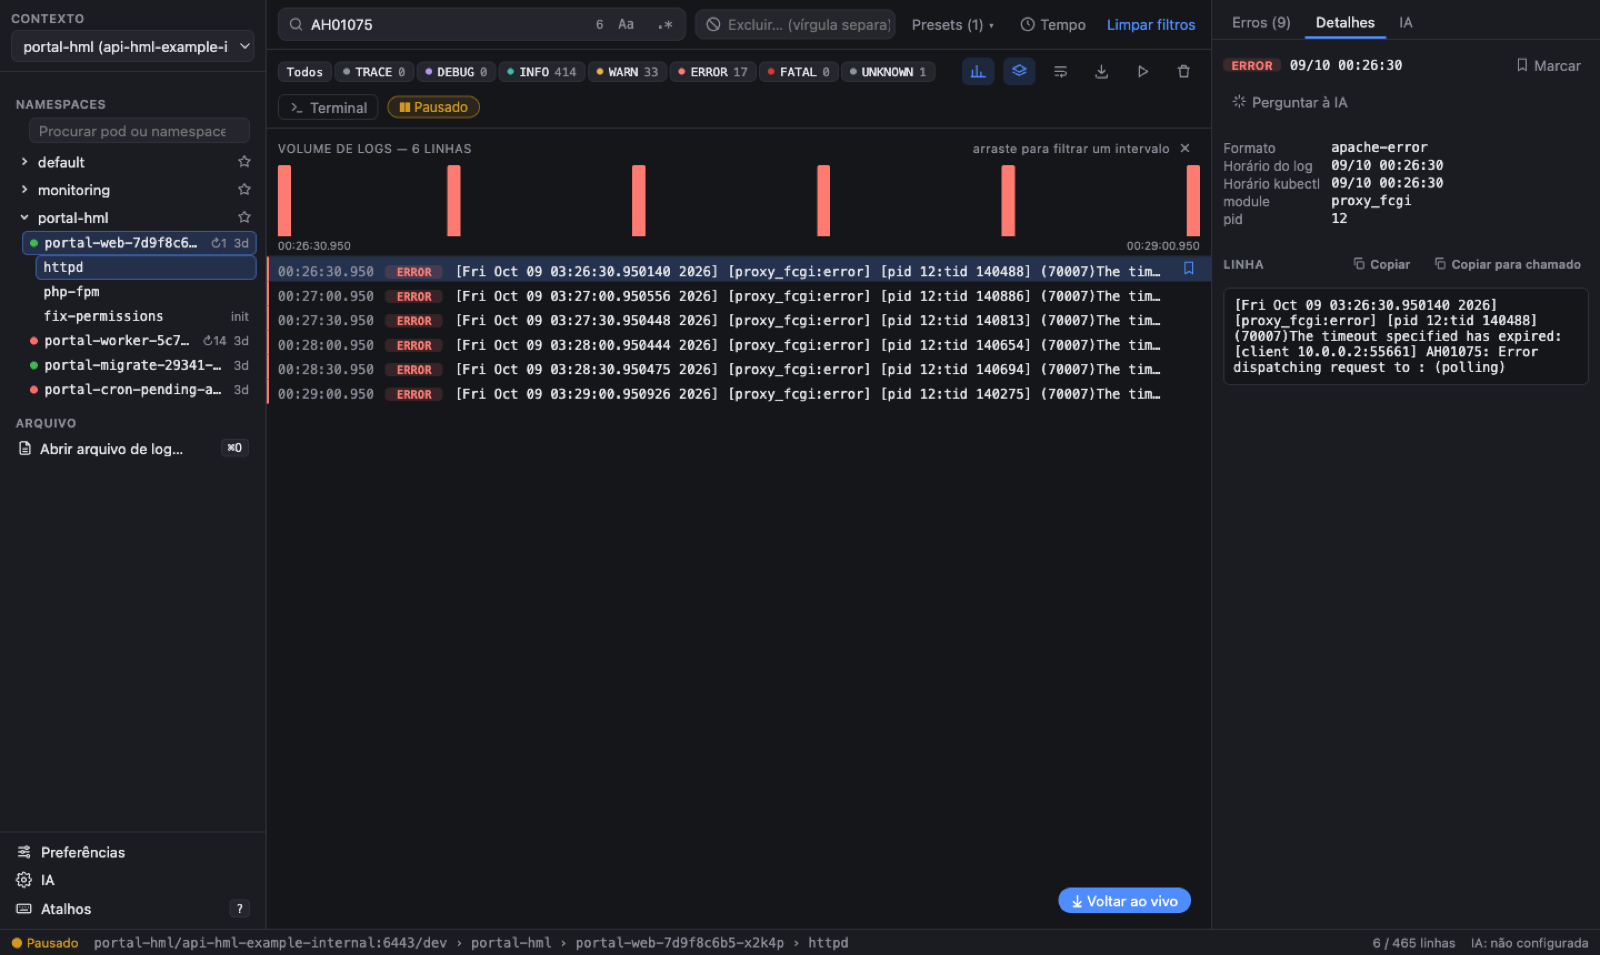
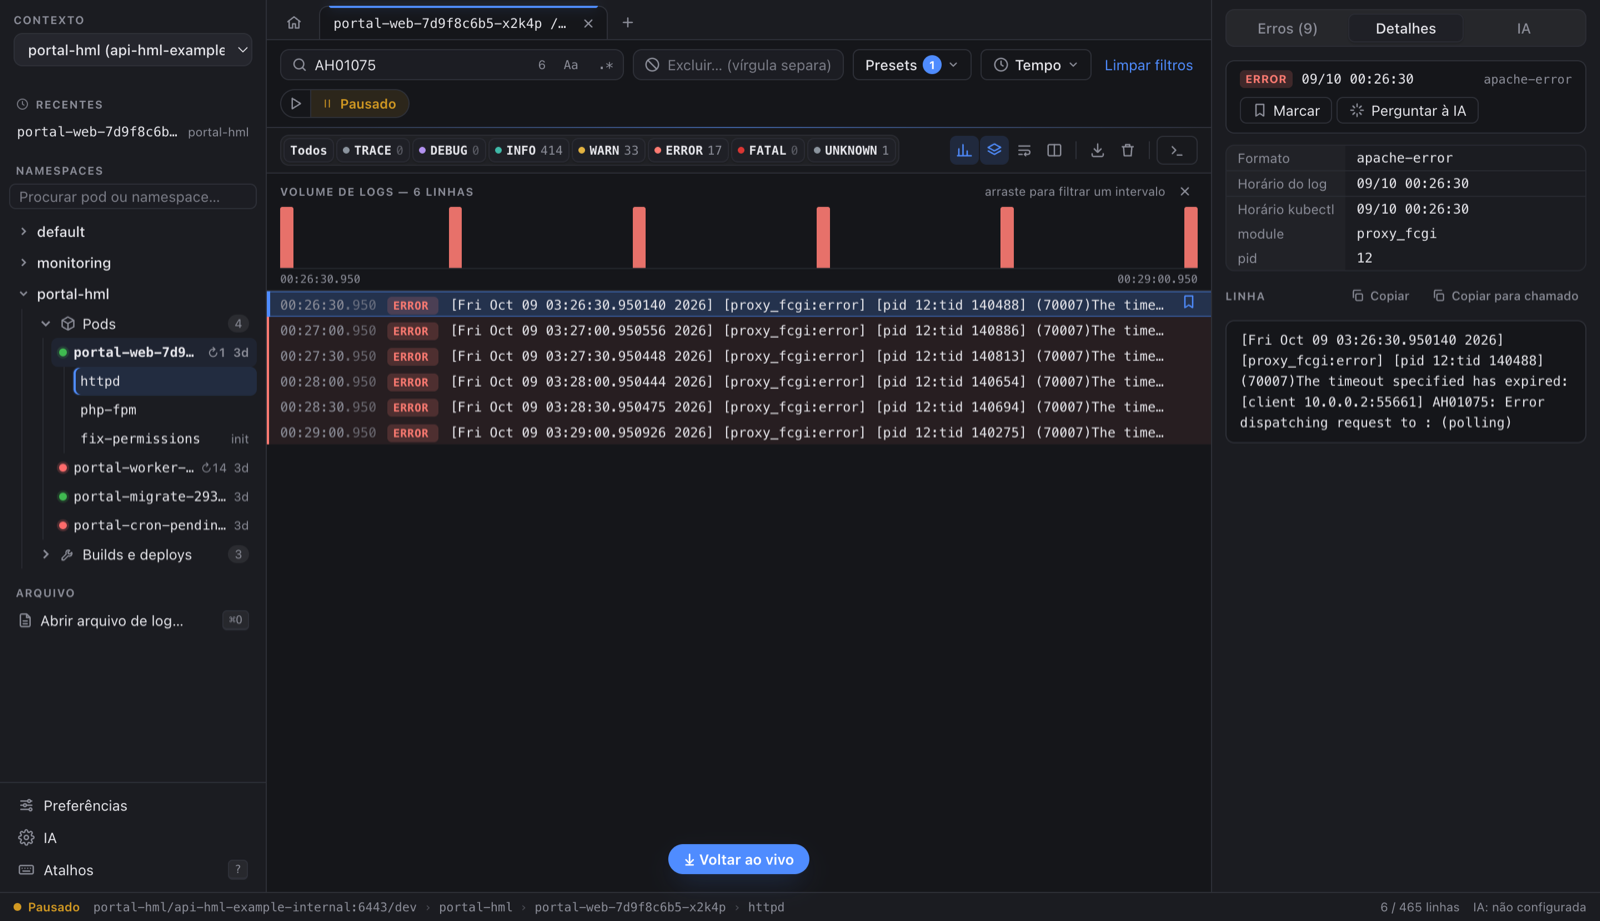
chore(release): 1.4.0 with a visual README tour
- README: header, badges, visual tour (welcome, details, errors, OKD builds,
  compare, light theme, preferences, shortcuts) from fake-data screenshots
- drop the unused icon concepts; keep the current logo; version 1.4.0

diff --git a/README.md b/README.md
@@ -1,26 +1,97 @@
-# LogDeck
+<p align="center">
+  <img src="build/icon.png" alt="LogDeck" width="128" height="128">
+</p>
 
-Explorador de logs de Kubernetes/OKD para **macOS, Linux e Windows**, **somente leitura**. Escolha o contexto, o namespace e o pod, acompanhe o log ao vivo, filtre por nível e por texto, veja os erros agrupados e, se quiser, peça para uma IA explicar o que está acontecendo.
+<h1 align="center">LogDeck</h1>
 
-> **English:** LogDeck is a read-only Kubernetes/OKD log explorer for macOS, Linux and Windows. Pick a context, namespace and pod, follow the log live, filter by level and text, see grouped errors and optionally ask an AI to explain them. The interface is available in English, Spanish and Portuguese (Preferences → Language).
+<p align="center">
+  <strong>Logs de Kubernetes e OKD, sem drama.</strong><br>
+  Explorador de logs gratuito e de código aberto para macOS, Linux e Windows — <strong>somente leitura</strong>.
+</p>
 
-![LogDeck](docs/images/main.png)
+<p align="center">
+  <a href="https://github.com/wisecort/LogDeck/releases/latest"><img alt="Release" src="https://img.shields.io/github/v/release/wisecort/LogDeck?label=release&color=4f8cff"></a>
+  <a href="LICENSE"><img alt="Licença MIT" src="https://img.shields.io/badge/licen%C3%A7a-MIT-3fb950"></a>
+  <img alt="macOS, Linux e Windows" src="https://img.shields.io/badge/macOS%20%C2%B7%20Linux%20%C2%B7%20Windows-1f2328">
+  <img alt="Somente leitura" src="https://img.shields.io/badge/cluster-somente%20leitura-e3b341">
+</p>
+
+<p align="center">
+  <code>brew install --cask wisecort/tap/logdeck</code>
+  &nbsp;·&nbsp;
+  <a href="https://github.com/wisecort/LogDeck/releases/latest">baixar para macOS, Linux ou Windows</a>
+</p>
+
+![LogDeck: log ao vivo, níveis com cores, histograma e erros agrupados](docs/images/main.png)
+
+> **English:** LogDeck is a free, open-source, read-only Kubernetes/OKD log explorer for macOS, Linux and Windows. Pick a context, namespace and pod, follow the log live, filter by level and text, see grouped errors, browse OKD builds and optionally ask an AI to explain what is going on. The interface is available in English, Spanish and Portuguese (Preferences → Language).
+
+## Por que o LogDeck
+
+- **Olha, não mexe.** O kubectl só roda com verbos de leitura (`get`, `logs`, `config get-contexts`, `auth can-i`), e o seu kubeconfig nunca é alterado.
+- **Feito para achar o problema rápido.** Níveis com cores em vários formatos de log, erros e timeouts agrupados com contagem, histograma de volume e comparação com o container que caiu.
+- **Feito para o dia a dia no OKD/OpenShift.** Histórico de builds no próprio namespace, log do build legível (passos, push, erros) e pods de build fora do caminho.
+- **Bonito e rápido.** 50 mil linhas sem travar, 9 temas, 4 idiomas e atalhos de teclado para tudo.
+
+## Tour
+
+### Comece por onde quiser
+
+A tela inicial mostra o contexto atual, a versão do kubectl e atalhos para abrir pods, arquivos de log ou o último pod que você viu.
+
+![Tela de boas-vindas](docs/images/welcome.png)
+
+### Detalhes de qualquer linha
+
+Clique numa linha para ver os horários do log e do kubectl, os campos reconhecidos, o JSON formatado e o stack trace. **Copiar para chamado** gera um texto pronto com pod, horários em UTC, nível e a linha, com senhas e tokens mascarados.
+
+![Detalhes de uma linha de erro](docs/images/details.png)
+
+### Erros e timeouts agrupados
+
+O painel **Erros** junta os erros repetidos (timeout Apache → PHP-FPM, `max_children`, conexão com banco, falha de build…) com contagem e período. Clique num grupo para filtrar o log por ele; o histograma mostra quando aconteceu.
+
+![Log filtrado por um grupo de erro](docs/images/errors.png)
+
+### Builds do OKD no próprio namespace
+
+Cada namespace mostra a pasta **Pods** e a pasta **Builds e deploys** com o histórico de builds (status, commit, duração). O log do build é reconhecido: passos `STEP n/m` e push em INFO, camadas em DEBUG, erros em ERROR, e o painel aponta a **Falha no build**.
+
+![Log de um build do OKD](docs/images/build-log.png)
+
+Quando o cluster já removeu o pod de um build antigo, o LogDeck mostra os detalhes do build e explica por que o log não existe mais.
+
+![Detalhes de um build cujo pod foi removido](docs/images/build-details.png)
+
+### Por que o pod caiu?
+
+Em pods com restart, **Comparar com o anterior** coloca o log do container anterior (`--previous`) ao lado do atual, com os mesmos filtros. Cada pod pode ficar numa **aba**, recebendo log em segundo plano.
+
+![Comparação lado a lado com o container anterior](docs/images/compare.png)
+
+### Do seu jeito
+
+Nove temas (Escuro, Meia-noite, Claro, Sistema, Alto contraste, Dracula, Nord, Tokyo Night, Catppuccin), quatro idiomas e atalhos para tudo.
+
+![Tema claro](docs/images/theme-light.png)
+
+| Preferências | Atalhos |
+|---|---|
+| ![Preferências com miniaturas de tema](docs/images/preferences.png) | ![Lista de atalhos](docs/images/shortcuts.png) |
 
 ## Recursos
 
-- **Log ao vivo** com reconexão automática, até 50 mil linhas na memória, sem travar a tela.
-- **Níveis com cores** (TRACE, DEBUG, INFO, WARN, ERROR, FATAL) reconhecidos em JSON, Laravel, Apache, Nginx, PHP-FPM, Java e texto livre; stack traces ficam juntos da linha de origem.
-- **Busca** por texto ou regex (com proteção contra regex que trava), **exclusões** e presets por namespace (por exemplo, esconder health checks).
-- **Histograma de volume** por nível: arraste sobre as barras para filtrar um intervalo de tempo.
-- **Painel de erros e timeouts**: agrupa erros repetidos (timeout Apache → PHP-FPM, `max_children`, permissão, conexão com banco…) com contagem e período.
-- **Detalhes da linha**: horários do log e do kubectl, campos, JSON formatado, stack trace, **Copiar para chamado** (com senhas e tokens mascarados).
-- **Container anterior** (`--previous`) para investigar CrashLoopBackOff, inclusive **lado a lado** com o log atual.
-- **Abas** e **pods recentes** para alternar entre vários pods.
+- **Log ao vivo** com reconexão automática; pods já terminados (builds, Jobs) são lidos uma vez, sem ficar reconectando.
+- **Níveis com cores** (TRACE a FATAL) em JSON, Laravel, Apache, Nginx, PHP-FPM, Java, builds do OKD (buildah/docker/s2i) e texto livre; stack traces ficam juntos da linha de origem.
+- **Busca** por texto ou regex (com proteção contra regex que trava), **exclusões** e presets por namespace, como esconder health checks.
+- **Histograma de volume**: arraste sobre as barras para ver só aquele intervalo.
+- **Painel de erros e timeouts** com contagem e período, e **detalhes da linha** com **Copiar para chamado**.
+- **Abas**, **pods recentes** (com × para tirar da lista) e **Comparar com o anterior** (`--previous`).
+- **Builds do OKD**: histórico, log do container do build e detalhes quando o pod já foi removido.
 - **Terminal no container**, aberto só quando você clica.
 - **Abrir arquivo de log** salvo (⌘O ou arrastando para a janela).
+- **Contextos**: um por vez, com renomear e ocultar só no LogDeck; nomes do EKS e do GKE encurtados; contextos de produção marcados com **PROD**.
 - **IA opcional** para explicar erros, com preview do texto mascarado e do destino antes de qualquer envio.
-- **Contextos**: um por vez, com renomear e ocultar só no LogDeck (o kubeconfig nunca é alterado); nomes do EKS e do GKE encurtados.
-- **9 temas** (Escuro, Meia-noite, Claro, Sistema, Alto contraste, Dracula, Nord, Tokyo Night, Catppuccin) e **4 idiomas** (português do Brasil, português de Portugal, inglês e espanhol).
 
 ## Instalação
 
@@ -30,114 +101,65 @@ Explorador de logs de Kubernetes/OKD para **macOS, Linux e Windows**, **somente 
 
   | Sistema | Comando |
   |---|---|
-  | macOS | `brew install kubectl` |
+  | macOS | `brew install kubectl` (o Homebrew do LogDeck já instala junto) |
   | Linux | `sudo snap install kubectl --classic` ou o pacote `kubectl` da sua distribuição |
   | Windows | `winget install -e --id Kubernetes.kubectl` |
 
-- Um kubeconfig com acesso ao cluster (o arquivo padrão `~/.kube/config` ou a variável `KUBECONFIG`). No OKD/OpenShift, basta fazer `oc login` antes.
+- Um kubeconfig com acesso ao cluster (o padrão `~/.kube/config` ou a variável `KUBECONFIG`). No OKD/OpenShift, basta fazer `oc login` antes.
 
-### Baixar
+### macOS (Apple Silicon ou Intel)
 
-Todos os arquivos estão na página de [Releases](https://github.com/wisecort/LogDeck/releases), com os checksums SHA-256.
+**Pelo Homebrew (recomendado):**
 
-**macOS** (Apple Silicon ou Intel)
+```bash
+brew install --cask wisecort/tap/logdeck
+```
 
-#### Pelo Homebrew (recomendado)
+Na primeira vez, o macOS avisa que não consegue verificar o desenvolvedor (o app ainda não é notarizado pela Apple). Libere com:
 
-O Homebrew baixa a versão certa para o seu Mac (Apple Silicon ou Intel) e instala o `kubectl` junto.
+```bash
+xattr -dr com.apple.quarantine /Applications/LogDeck.app
+```
 
-1. Instale:
-   ```bash
-   brew install --cask wisecort/tap/logdeck
-   ```
-2. Na primeira vez, o macOS avisa que não consegue verificar o desenvolvedor (o app ainda não é assinado pela Apple). Libere com:
-   ```bash
-   xattr -dr com.apple.quarantine /Applications/LogDeck.app
-   ```
-   Ou abra o LogDeck uma vez, feche o aviso e vá em **Ajustes do Sistema → Privacidade e Segurança → Abrir mesmo assim**.
-3. Abra o **LogDeck** pelo Launchpad ou pelo Spotlight.
+ou abra o LogDeck uma vez, feche o aviso e vá em **Ajustes do Sistema → Privacidade e Segurança → Abrir mesmo assim**.
 
 | Para | Comando |
 |---|---|
-| Atualizar para a versão mais nova | `brew update && brew upgrade --cask logdeck` |
+| Atualizar | `brew update && brew upgrade --cask logdeck` |
 | Ver a versão instalada | `brew info --cask logdeck` |
 | Já tem o LogDeck em Aplicativos (instalado pelo `.dmg`) | `brew install --cask --force wisecort/tap/logdeck` |
 | Remover | `brew uninstall --cask logdeck` |
-| Remover tudo, inclusive preferências e contextos renomeados | `brew uninstall --zap --cask logdeck` |
+| Remover tudo, inclusive preferências | `brew uninstall --zap --cask logdeck` |
 
-Depois de atualizar, rode de novo o `xattr` do passo 2 se o macOS voltar a avisar.
+**Manualmente:** baixe `LogDeck-<versão>-arm64.dmg` (M1 ou mais novo) ou `LogDeck-<versão>-x64.dmg` (Intel) na página de [Releases](https://github.com/wisecort/LogDeck/releases), arraste o LogDeck para **Aplicativos** e libere a primeira abertura como acima.
 
-#### Manualmente (`.dmg`)
-
-1. Baixe `LogDeck-<versão>-arm64.dmg` (M1 ou mais novo) ou `LogDeck-<versão>-x64.dmg` (Intel).
-2. Abra o `.dmg` e arraste o **LogDeck** para **Aplicativos**.
-3. Na primeira vez, o macOS avisa que não consegue verificar o desenvolvedor (o app ainda não é assinado pela Apple). Para liberar, abra o LogDeck uma vez, feche o aviso e vá em **Ajustes do Sistema → Privacidade e Segurança → Abrir mesmo assim**. Ou, no Terminal:
-   ```bash
-   xattr -dr com.apple.quarantine /Applications/LogDeck.app
-   ```
-
-**Linux** (x64)
+### Linux (x64)
 
 - Debian/Ubuntu: `sudo apt install ./LogDeck-<versão>-<arq>.deb`
 - Fedora/RHEL: `sudo dnf install ./LogDeck-<versão>-<arq>.rpm`
 - Qualquer distribuição: `chmod +x LogDeck-<versão>-<arq>.AppImage` e abra o arquivo
 
-Para guardar chaves de IA, o Linux precisa de um cofre de senhas ativo (GNOME Keyring ou KWallet). Sem ele, o LogDeck funciona, mas não grava chaves.
+Para guardar chaves de IA, o Linux precisa de um cofre de senhas ativo (GNOME Keyring ou KWallet).
 
-**Windows** (x64)
+### Windows (x64)
 
-1. Baixe e rode o instalador `LogDeck-<versão>-<arq>.exe`. A instalação é só para o seu usuário e não pede administrador.
-2. O app ainda não é assinado: se o SmartScreen avisar, clique em **Mais informações → Executar assim mesmo**.
+Baixe e rode `LogDeck-<versão>-<arq>.exe`. A instalação é só para o seu usuário e não pede administrador. O app ainda não é assinado: se o SmartScreen avisar, clique em **Mais informações → Executar assim mesmo**.
+
+Todos os arquivos ficam na página de [Releases](https://github.com/wisecort/LogDeck/releases), com os checksums SHA-256.
 
 ## Como usar
 
-### 1. Escolher contexto, namespace e pod
+1. **Escolha o contexto** no topo da barra lateral. Ele começa no contexto atual do seu kubeconfig; em **Gerenciar contextos…** você renomeia ou oculta contextos só no LogDeck.
+2. **Abra um namespace** e clique num pod (bolinha verde: rodando; vermelha: com problema; ↻ = restarts). Se o pod tiver mais de um container, escolha o container. ⌘-clique abre numa aba nova.
+3. **Acompanhe o log ao vivo.** Rolar para cima ou clicar numa linha pausa a tela; **Ao vivo** volta para o fim.
+4. **Filtre:** níveis (⌥+clique mostra só um), busca (⌘F, `Aa`, `.*`), exclusões e presets, **Tempo** (tail, desde quando, `--previous`) e o histograma.
+5. **Investigue:** painel **Erros**, **Detalhes** da linha, **Copiar para chamado**, **Comparar com o anterior** e **Terminal** no container.
+6. **No OKD:** abra a pasta **Builds e deploys** e clique num build para ver o log dele.
+7. **Volte ao início** pelo ícone de casa, à esquerda das abas.
 
-- No topo da barra lateral, o seletor **Contexto** começa no contexto atual do seu kubeconfig. Contextos com `prod` ou `prd` no nome aparecem com a marca **PROD** e uma faixa vermelha no topo da janela.
-- Abaixo aparecem os **namespaces**. Clique para ver os pods (bolinha verde: rodando; vermelha: com problema; ↻ = restarts).
-- Clique no pod. Se ele tiver mais de um container, escolha o container.
-- Use **Procurar pod ou namespace** para filtrar a árvore e a ⭐ para favoritar namespaces.
-- No OKD/OpenShift, cada namespace tem a pasta **Builds e deploys** depois dos pods: o histórico de builds (status, commit, duração) e os pods de deploy. Clique num build para ver o log dele; builds antigos cujo pod o cluster já removeu aparecem esmaecidos, sem log.
-- Sem permissão para listar namespaces (comum no OKD)? Digite o nome do namespace e tecle Enter.
+### IA (opcional)
 
-### 2. Acompanhar o log
-
-- O log abre **ao vivo**. Ao rolar para cima ou clicar numa linha, a tela **pausa** (o log continua chegando). Clique em **Ao vivo** ou no ▶ para voltar.
-- **Níveis:** clique para ligar ou desligar; ⌥+clique mostra só aquele nível.
-- **Buscar** (⌘F): texto, `Aa` para diferenciar maiúsculas e `.*` para regex. ⌘G / ⇧⌘G pula entre os resultados.
-- **Excluir:** termos separados por vírgula. Em **Presets** você salva exclusões por namespace.
-- **Tempo:** quantas linhas trazer (tail), desde quando e **Container anterior (`--previous`)**.
-- **Comparar com o anterior** (ícone de colunas): mostra o log do container anterior ao lado do atual.
-- **Histograma:** arraste sobre as barras para ver só aquele intervalo.
-- Na barra de ações: colapsar repetidas, quebrar linhas, **exportar** as linhas filtradas, pausar, limpar a tela e **Terminal**.
-
-![Detalhes de uma linha](docs/images/details.png)
-
-### Abas
-
-Clique em **+** acima da busca para abrir outra aba, ou faça ⌘-clique (Ctrl-clique no Windows/Linux) num pod para abri-lo direto numa aba nova. Cada aba continua recebendo o log em segundo plano. Até 8 abas.
-
-### 3. Investigar erros
-
-- A aba **Erros** agrupa os erros e timeouts. Clique num grupo para filtrar o log por ele.
-- Clique numa linha para abrir **Detalhes**: horários, campos, JSON, stack trace, **Copiar** e **Copiar para chamado** (pod, horários em UTC, nível e a linha, com segredos mascarados).
-- **Marcar** guarda a linha na seção **Marcadas** da barra lateral.
-
-### 4. Abrir um arquivo de log
-
-Use ⌘O, o botão **Abrir arquivo de log…** ou arraste o arquivo para a janela. Funciona com logs exportados com ou sem `kubectl logs --timestamps`, até 200 MB. Nenhuma chamada ao cluster é feita.
-
-### 5. Gerenciar contextos
-
-No seletor de contexto, escolha **Gerenciar contextos…** para:
-
-- **renomear** um contexto só no LogDeck (por exemplo, trocar um ARN longo do EKS por `eks-cluster`);
-- **ocultar** contextos que você não usa;
-- copiar o comando `kubectl config delete-context` para remover de vez no seu terminal. O LogDeck nunca altera o kubeconfig.
-
-### 6. IA (opcional)
-
-Configure em **IA** (rodapé da barra lateral). Provedores:
+Configure em **IA**, no rodapé da barra lateral:
 
 | Provedor | Custo | Onde o texto é processado |
 |---|---|---|
@@ -145,15 +167,7 @@ Configure em **IA** (rodapé da barra lateral). Provedores:
 | **API da Anthropic** | por token (chave no cofre do sistema) | Anthropic |
 | **API compatível com OpenAI**: Ollama, LM Studio, DeepSeek, OpenRouter, Groq ou URL própria | grátis (local) ou do provedor | na sua máquina ou no provedor escolhido |
 
-Na aba **IA**, escolha o contexto (linha selecionada com as vizinhas, grupos de erro marcados ou linhas visíveis), faça uma pergunta se quiser e clique em **Preparar envio**. Você vê o texto **mascarado** (senhas, tokens, e-mails e, se quiser, IPs internos) e o **destino** antes de clicar em **Enviar**. Nada é enviado sozinho. A resposta traz uma "Estimativa da IA", que pode estar errada; comandos que alterariam o cluster aparecem riscados e nunca são executados.
-
-Se o log tiver dados pessoais ou sensíveis, avalie a LGPD e a política da sua organização antes de usar um provedor hospedado.
-
-### 7. Preferências
-
-Em **Preferências** (rodapé da barra lateral): tema, idioma e Sobre.
-
-![Preferências](docs/images/preferences.png)
+Na aba **IA**, escolha o que enviar (linha selecionada com as vizinhas, grupos de erro ou linhas visíveis), faça uma pergunta se quiser e clique em **Preparar envio**. Você vê o texto **mascarado** (senhas, tokens, e-mails e, se quiser, IPs internos) e o **destino** antes de **Enviar**. Nada é enviado sozinho, e comandos que alterariam o cluster aparecem riscados e nunca são executados. Se o log tiver dados pessoais ou sensíveis, avalie a LGPD e a política da sua organização antes de usar um provedor hospedado.
 
 ## Atalhos
 
@@ -171,9 +185,7 @@ No Windows e no Linux, use Ctrl no lugar de ⌘, Shift no lugar de ⇧ e Alt no 
 
 ## Segurança
 
-O LogDeck foi feito para olhar, não para mexer:
-
-- **Só leitura:** o kubectl só roda com `config get-contexts`, `get`, `logs`, `auth can-i` e `version --client`. Qualquer outro verbo é bloqueado no código. O terminal no container só abre quando você clica.
+- **Só leitura:** o kubectl só roda com `config get-contexts`, `get` (namespaces, pods e builds do OKD), `logs`, `auth can-i` e `version --client`. Qualquer outro verbo é bloqueado no código. O terminal no container só abre quando você clica.
 - **Seu kubeconfig fica intacto:** cada chamada usa `--context`; o app nunca faz `config use-context` nem lê `config view --raw`, tokens ou certificados.
 - **Sem shell:** o kubectl é chamado com uma lista de argumentos, e nomes de namespace, pod e container são validados.
 - **IA só com clique**, preview e mascaramento. Os logs são tratados como dados, nunca como instruções.
@@ -185,30 +197,31 @@ As regras completas estão em [`GUARDRAILS.md`](GUARDRAILS.md) e o escopo em [`S
 
 | Sintoma | O que fazer |
 |---|---|
-| "kubectl não encontrado" | `brew install kubectl` e abra o LogDeck de novo |
+| "kubectl não encontrado" | instale o kubectl (veja [Requisitos](#requisitos)) e abra o LogDeck de novo |
 | Nenhum contexto aparece | confira o `~/.kube/config` ou a variável `KUBECONFIG`; no OKD, faça `oc login` |
-| Erro de autenticação | o token expirou: faça login de novo no cluster (`oc login`, `aws eks update-kubeconfig`…) |
+| "O cluster não respondeu em 30 s" | VPN desligada, rede ou login do contexto vencido (`oc login`, `aws sso login`…); teste com `kubectl --context <ctx> get namespaces` |
+| Erro de autenticação | o token expirou: faça login de novo no cluster |
 | Não lista namespaces | falta permissão de listar; digite o nome do namespace e tecle Enter |
+| Build sem log | o cluster já removeu o pod do build; abra builds enquanto rodam ou logo depois |
 | Linhas antigas sumiram | o limite é 50 mil linhas; a barra de status mostra quantas foram descartadas |
-| Aviso de desenvolvedor não verificado | veja o passo 3 da [instalação](#baixar) |
-| "LogDeck está danificado e não pode ser aberto" (versões até 1.2.0) | o app não está danificado: era a assinatura incompleta. Rode `xattr -dr com.apple.quarantine /Applications/LogDeck.app` ou atualize para a 1.2.1+ |
+| "LogDeck está danificado" (versões até 1.2.0) | o app não está danificado: era a assinatura incompleta. Rode o `xattr` da [instalação](#macos-apple-silicon-ou-intel) ou atualize |
 
 ## Construir a partir do código
 
-Requisitos: Node 22 ou mais novo (o projeto usa Node 26, veja `.nvmrc`) e ferramentas de compilação (no macOS, as do Xcode; no Linux, `build-essential` e `python3`, porque o terminal embutido é compilado na instalação).
+Requisitos: Node 22 ou mais novo (o projeto usa Node 26, veja `.nvmrc`) e ferramentas de compilação (no macOS, as do Xcode; no Linux, `build-essential` e `python3`).
 
 ```bash
 git clone https://github.com/wisecort/LogDeck.git
 cd LogDeck
 npm ci
-make dev          # abre o app em modo desenvolvimento
-make harness      # lint, tipos, guardrails, testes, build, E2E, auditoria e segredos
+make dev                # abre o app em modo desenvolvimento
+make harness            # lint, tipos, guardrails, testes, build, E2E, auditoria e segredos
 npm run release:mac     # macOS: .dmg e .zip (arm64 e x64)
 npm run release:linux   # Linux: AppImage, .deb e .rpm
 npm run release:win     # Windows: instalador .exe
 ```
 
-Os testes nunca acessam um cluster de verdade: usam um `kubectl` falso e logs fictícios. Regras para contribuir (inclusive com assistentes de IA) estão em [`AGENTS.md`](AGENTS.md).
+Os testes nunca acessam um cluster de verdade: usam um `kubectl` falso e logs fictícios (as capturas deste README também). Regras para contribuir, inclusive com assistentes de IA, estão em [`AGENTS.md`](AGENTS.md).
 
 ## Licença
 

diff --git a/CHANGELOG.md b/CHANGELOG.md
@@ -2,8 +2,9 @@
 
 Formato baseado em [Keep a Changelog](https://keepachangelog.com/pt-BR/1.1.0/). Uma entrada por fase.
 
-## [Não lançado]
+## [1.4.0] — 12/10/2026
 
+- **README novo** com tour visual: boas-vindas, detalhes, erros, builds do OKD, comparação com o anterior, tema claro, Preferências e Atalhos (capturas feitas com dados fictícios).
 - **Recentes:** um × ao passar o mouse tira o pod da lista (fica salvo).
 - **Visual Cockpit:** tela de boas-vindas nas abas vazias (logo, cartões Pods / Arquivo / Último pod com atalhos, status do contexto e do kubectl), botão **Início** na barra de abas, indicador ao vivo pulsando, superfícies de vidro e brilho na cor de destaque.
 - **Preferências** redesenhadas: temas em miniaturas com as cores reais, idiomas em botões, cartão Sobre com logo. **Atalhos** agrupados (Geral, Busca, Mouse) com teclas desenhadas (Ctrl no Windows/Linux).
@@ -17,7 +18,6 @@ Formato baseado em [Keep a Changelog](https://keepachangelog.com/pt-BR/1.1.0/). 
   - Barra lateral com guias de indentação na árvore, contadores nas pastas, estrela de favorito só ao passar o mouse; o pod fica discreto quando um container dele está selecionado.
   - Painel direito: abas segmentadas, grupos de erro em cartões, cabeçalho da linha selecionada com ações, campos em tabela, estados vazios com ícone; botão principal desabilitado neutro.
   - Abas com linha de destaque na aba ativa; barra de status com ponto de estado pulsando e caminho com separadores; janela estreita (≤1280 px) dá mais espaço ao log.
-  - Três conceitos novos de ícone em `build/icon-src/` (`d-helm-lines`, `e-strata`, `f-scope`), sem trocar o atual.
 - Tempo esgotado do kubectl com mensagem útil e traduzida (qual comando demorou e o que verificar: VPN/rede, login do contexto).
 
 ## [1.3.0] — 12/10/2026
